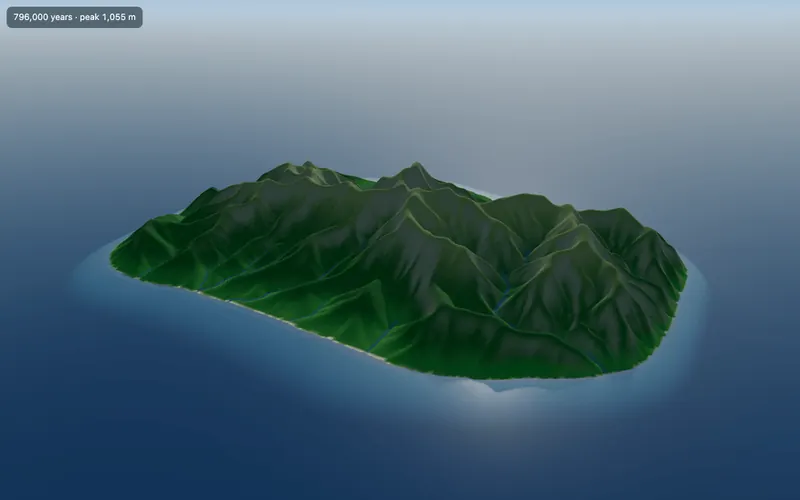
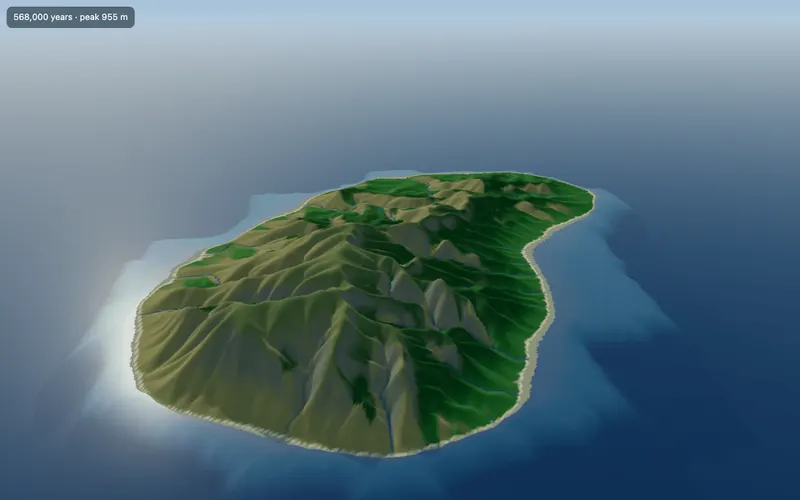
island: README and screenshot for rain and sediment, and a hover preview of the orbit

diff --git a/recordPreviews.js b/recordPreviews.js
@@ -22,7 +22,8 @@ const MIN_FRAMES = 30; // fewer changed frames than this is a jump or two, not m
 // before recording (ms), and act runs on the page after loading.
 const setup = {
   lambdagator: {warmup: 300, act: (page) => page.click('#watch')},
-  bz: {warmup: 8000}, // let the broken fronts curl up into spirals
+  bz: {warmup: 8000},
+  island: {warmup: 4000}, // let the rivers form and the camera start drifting // let the broken fronts curl up into spirals
   // unstretch and stretch again every 2 seconds, so the 4-second clip loops cleanly
   cartogram: {
     warmup: 0,

diff --git a/island/README.md b/island/README.md
@@ -1,11 +1,13 @@
-Island - 2026 - Millions of years in seconds: an island rises, rivers carve its valleys, and you can raise mountains and follow a raindrop to the sea.
+Island - 2026 - Millions of years in seconds: an island rises, rivers carve its valleys, and the wind leaves one side lush and the other dry.
 
 The crust under the island rises, rivers cut down into it, and soil creeps downhill, following the standard landscape evolution equation
 
-dh/dt = U − K (P·A)^m · S + D ∇²h
+dh/dt = U − K Q^m · S + D ∇²h
 
-where U is uplift, P·A is the river's discharge (rain × the area draining through a point), S is the slope to the next point downstream and D is how fast soil creeps. River cutting is solved implicitly down the drainage tree (Braun & Willett 2013, the method behind FastScape), so it is stable with 2,000-year steps. Hollows fill into lakes that spill over their lowest rim (priority flood, Barnes 2014), and rivers end at the sea, which they can't cut below. `node island/test.js` checks that at steady state every river's slope matches the exact answer U / (K (P·A)^m).
+where U is uplift, Q is the river's discharge (all the rain falling upstream of a point), S is the slope to the next point downstream and D is how fast soil creeps. River cutting is solved implicitly down the drainage tree (Braun & Willett 2013, the method behind FastScape), so it is stable with 2,000-year steps. Hollows fill into lakes that spill over their lowest rim (priority flood, Barnes 2014), and rivers end at the sea, which they can't cut below.
 
-Tap or click the land to follow a raindrop to the sea and see how much water flows past. Pick **Raise** or **Lower** to sculpt (drag to paint; on a phone, two fingers still zoom and pan), and watch the rivers find new routes. Lower the sea to expose the shelf, or raise it to drown the valleys. Space pauses. The URL keeps the island's seed and any changed settings.
+What the rivers cut away travels downstream and settles in still water: lakes fill in from where rivers enter, and at the coast it spreads down a gentle slope from each river mouth into a shelf. Rain comes in on the wind. Air climbing the island's broad slopes drops more rain, and it dries out as it crosses, so the windward side is wet and green and the lee is dry grass, with fewer, smaller rivers. The **Rain** setting is the average over the land; tap a spot to see what falls there. `node island/test.js` checks that at steady state every river's slope matches the exact answer U / (K Q^m), that sediment is conserved to a part in 10¹³, and that the windward side is wetter.
 
-Simplifications: eroded rock vanishes instead of being carried and deposited (lakes don't fill with sediment, and there are no deltas), the rock is the same everywhere, there are no waves eating at the coast, and rain is the runoff that reaches rivers, with no evaporation.
+Tap or click the land to follow a raindrop to the sea and see how much water flows past. Pick **Raise** or **Lower** to sculpt (drag to paint; on a phone, two fingers still zoom and pan), and watch the rivers find new routes. Lower the sea to expose the shelf, or raise it to drown the valleys. The camera drifts around the island until you take it. Space pauses. The URL keeps the island's seed and any changed settings.
+
+Simplifications: sediment only settles in lakes and the sea, so rivers never build floodplains or fans on land; the rock is the same everywhere; there are no waves eating at the coast; and rain is the runoff that reaches rivers, with no evaporation. The rain model is a simple sweep along the wind, not a weather simulation.
